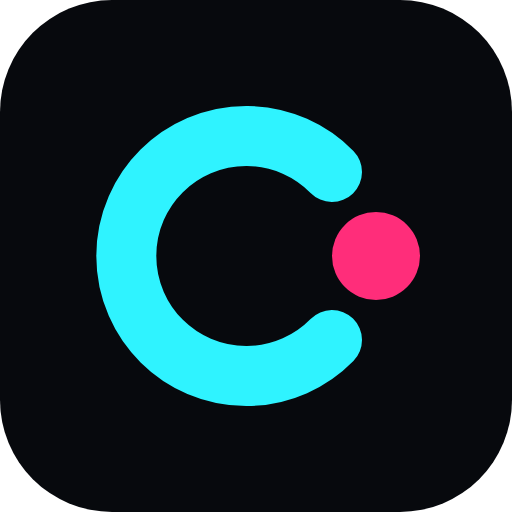
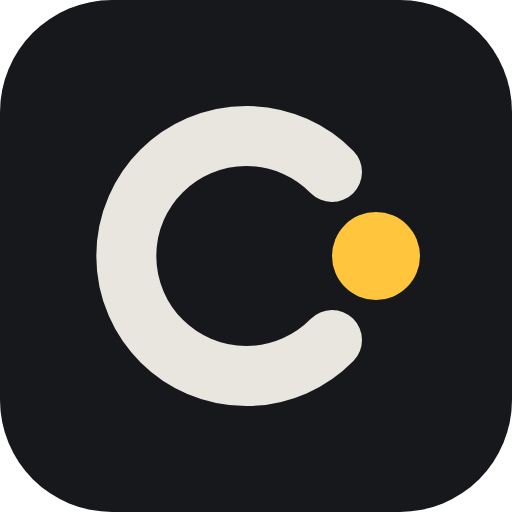
配色を「白×安全黄」に変更: ファビコンとサイトの差し色（チャコール・生成り・安全黄・コーラル）
市民がつくる道具という意味に合わせ、蛍光シアン×マゼンタから落ち着いた配色へ。ヒーローの表記 sivildot を civildot に修正

Changed region(s): [[0.1875, 0.1875, 0.7188, 0.8125], [0.625, 0.4062, 0.8438, 0.5938]]

diff --git a/src/css/site.css b/src/css/site.css
@@ -1,13 +1,12 @@
 :root {
-  --bg: #07090d;
-  --bg-2: #0d1118;
-  --panel: #0f141c;
-  --line: #1c2633;
-  --text: #d8e3ef;
-  --muted: #8a9ab0;
-  --cyan: #2ff3ff;
-  --magenta: #ff2d7a;
-  --amber: #ffc53d;
+  --bg: #111214;
+  --bg-2: #16181b;
+  --panel: #191b1f;
+  --line: #2a2d33;
+  --text: #e9e6df;
+  --muted: #9b978e;
+  --accent: #ffc53d;
+  --accent-2: #f07a52;
   --mono: 'Share Tech Mono', 'Consolas', monospace;
   --sans: 'Noto Sans JP', system-ui, sans-serif;
 }
@@ -20,8 +19,8 @@ body {
   font-family: var(--sans);
   line-height: 1.7;
   background-image:
-    linear-gradient(rgba(47,243,255,0.045) 1px, transparent 1px),
-    linear-gradient(90deg, rgba(47,243,255,0.045) 1px, transparent 1px);
+    linear-gradient(rgba(255,197,61,0.035) 1px, transparent 1px),
+    linear-gradient(90deg, rgba(255,197,61,0.035) 1px, transparent 1px);
   background-size: 48px 48px;
   position: relative;
 }
@@ -35,7 +34,7 @@ body::after {
 }
 body.legal { background-image: none; }
 body.legal::after { display: none; }
-a { color: var(--cyan); text-decoration: none; }
+a { color: var(--accent); text-decoration: none; }
 a:hover { text-decoration: underline; }
 img { max-width: 100%; }
 .wrap { max-width: 1120px; margin: 0 auto; padding: 0 20px; }
@@ -51,18 +50,18 @@ img { max-width: 100%; }
 .site-header .wrap { display: flex; align-items: center; justify-content: space-between; height: 56px; }
 .brand { font-family: var(--mono); font-size: 15px; color: var(--text); white-space: nowrap; }
 .brand:hover { text-decoration: none; }
-.brand b { color: var(--cyan); font-weight: 400; }
-.brand .cursor { display: inline-block; width: 8px; height: 15px; background: var(--cyan); vertical-align: -2px; margin-left: 4px; animation: blink 1s steps(2) infinite; }
+.brand b { color: var(--accent); font-weight: 400; }
+.brand .cursor { display: inline-block; width: 8px; height: 15px; background: var(--accent); vertical-align: -2px; margin-left: 4px; animation: blink 1s steps(2) infinite; }
 @keyframes blink { 50% { opacity: 0; } }
 .site-header nav a { font-family: var(--mono); font-size: 13px; color: var(--muted); margin-left: 22px; }
-.site-header nav a:hover { color: var(--cyan); text-decoration: none; }
+.site-header nav a:hover { color: var(--accent); text-decoration: none; }
 
 /* hero */
 .hero { padding: 72px 0 48px; border-bottom: 1px solid var(--line); position: relative; overflow: hidden; }
 .hero .wrap { position: relative; }
-.hero .tag { font-family: var(--mono); color: var(--magenta); font-size: 13px; margin-bottom: 14px; }
+.hero .tag { font-family: var(--mono); color: var(--accent-2); font-size: 13px; margin-bottom: 14px; }
 .hero h1 { font-size: clamp(30px, 5vw, 52px); line-height: 1.25; margin: 0 0 18px; font-weight: 700; letter-spacing: -0.01em; }
-.hero h1 span { color: var(--cyan); text-shadow: 0 0 18px rgba(47,243,255,0.45); }
+.hero h1 span { color: var(--accent); text-shadow: 0 0 18px rgba(255,197,61,0.45); }
 .hero h1 .h1-brand { display: block; font-family: var(--mono); font-size: 15px; font-weight: 400; letter-spacing: 0.18em; color: var(--muted); text-shadow: none; margin-bottom: 10px; }
 .hero p { max-width: 640px; color: var(--muted); margin: 0 0 26px; font-size: 16px; }
 .hero .links a {
@@ -70,25 +69,25 @@ img { max-width: 100%; }
   padding: 9px 16px; border: 1px solid var(--line); color: var(--text);
   margin: 0 10px 10px 0; background: var(--panel);
 }
-.hero .links a:hover { border-color: var(--cyan); color: var(--cyan); text-decoration: none; box-shadow: 0 0 0 1px rgba(47,243,255,0.25), 0 0 20px rgba(47,243,255,0.12); }
+.hero .links a:hover { border-color: var(--accent); color: var(--accent); text-decoration: none; box-shadow: 0 0 0 1px rgba(255,197,61,0.25), 0 0 20px rgba(255,197,61,0.12); }
 .hero .avatar { position: absolute; right: 20px; top: 0; width: 150px; height: 150px; border: 1px solid var(--line); background: var(--panel); object-fit: cover; }
 .hero .avatar-frame { position: absolute; right: 20px; top: 0; width: 150px; height: 150px; pointer-events: none; }
-.hero .avatar-frame::before, .hero .avatar-frame::after { content: ""; position: absolute; width: 14px; height: 14px; border: 2px solid var(--cyan); }
+.hero .avatar-frame::before, .hero .avatar-frame::after { content: ""; position: absolute; width: 14px; height: 14px; border: 2px solid var(--accent); }
 .hero .avatar-frame::before { left: -4px; top: -4px; border-right: 0; border-bottom: 0; }
 .hero .avatar-frame::after { right: -4px; bottom: -4px; border-left: 0; border-top: 0; }
 .stats { display: flex; gap: 28px; margin-top: 10px; font-family: var(--mono); font-size: 13px; color: var(--muted); flex-wrap: wrap; }
-.stats b { color: var(--amber); font-weight: 400; font-size: 20px; margin-right: 6px; }
+.stats b { color: var(--accent); font-weight: 400; font-size: 20px; margin-right: 6px; }
 
 /* sections */
 .section-head { display: flex; align-items: baseline; justify-content: space-between; margin: 44px 0 18px; flex-wrap: wrap; gap: 12px; }
 .section-head h2 { font-family: var(--mono); font-size: 14px; color: var(--muted); margin: 0; font-weight: 400; }
-.section-head h2::before { content: "// "; color: var(--magenta); }
+.section-head h2::before { content: "// "; color: var(--accent-2); }
 .filters { display: flex; gap: 8px; flex-wrap: wrap; }
 .filters button {
   font-family: var(--mono); font-size: 12px; background: transparent; color: var(--muted);
   border: 1px solid var(--line); padding: 5px 12px; cursor: pointer;
 }
-.filters button.on, .filters button:hover { color: var(--cyan); border-color: var(--cyan); }
+.filters button.on, .filters button:hover { color: var(--accent); border-color: var(--accent); }
 
 /* cards */
 .grid { display: grid; grid-template-columns: repeat(auto-fill, minmax(300px, 1fr)); gap: 22px; margin-bottom: 72px; }
@@ -96,17 +95,17 @@ img { max-width: 100%; }
   display: block; background: var(--panel); border: 1px solid var(--line); color: var(--text);
   position: relative; transition: transform .15s, border-color .15s, box-shadow .15s;
 }
-.card:hover { text-decoration: none; transform: translateY(-3px); border-color: var(--cyan); box-shadow: 0 0 0 1px rgba(47,243,255,0.25), 0 12px 40px rgba(0,0,0,0.5), 0 0 24px rgba(47,243,255,0.1); }
-.card::before { content: ""; position: absolute; left: -1px; top: -1px; width: 16px; height: 16px; border-top: 2px solid var(--cyan); border-left: 2px solid var(--cyan); opacity: 0; transition: opacity .15s; }
-.card::after  { content: ""; position: absolute; right: -1px; bottom: -1px; width: 16px; height: 16px; border-bottom: 2px solid var(--magenta); border-right: 2px solid var(--magenta); opacity: 0; transition: opacity .15s; }
+.card:hover { text-decoration: none; transform: translateY(-3px); border-color: var(--accent); box-shadow: 0 0 0 1px rgba(255,197,61,0.25), 0 12px 40px rgba(0,0,0,0.5), 0 0 24px rgba(255,197,61,0.1); }
+.card::before { content: ""; position: absolute; left: -1px; top: -1px; width: 16px; height: 16px; border-top: 2px solid var(--accent); border-left: 2px solid var(--accent); opacity: 0; transition: opacity .15s; }
+.card::after  { content: ""; position: absolute; right: -1px; bottom: -1px; width: 16px; height: 16px; border-bottom: 2px solid var(--accent-2); border-right: 2px solid var(--accent-2); opacity: 0; transition: opacity .15s; }
 .card:hover::before, .card:hover::after { opacity: 1; }
 .card .thumb { position: relative; aspect-ratio: 16 / 9; overflow: hidden; background: #000; border-bottom: 1px solid var(--line); }
 .card .thumb img { width: 100%; height: 100%; object-fit: cover; display: block; filter: saturate(0.9); transition: filter .2s, transform .3s; }
 .card:hover .thumb img { filter: saturate(1.1); transform: scale(1.03); }
 .card .thumb .kind { position: absolute; left: 10px; top: 10px; }
-.kind { font-family: var(--mono); font-size: 11px; padding: 3px 8px; background: rgba(7,9,13,0.85); border: 1px solid var(--line); color: var(--cyan); letter-spacing: 0.06em; }
-.kind.mobile { color: var(--amber); }
-.kind.vr { color: var(--magenta); }
+.kind { font-family: var(--mono); font-size: 11px; padding: 3px 8px; background: rgba(17,18,20,0.88); border: 1px solid var(--line); color: var(--accent); letter-spacing: 0.06em; }
+.kind.mobile { color: var(--text); }
+.kind.vr { color: var(--accent-2); }
 .card .body { padding: 14px 16px 16px; }
 .card .year { font-family: var(--mono); font-size: 11px; color: var(--muted); }
 .card h3 { margin: 2px 0 6px; font-size: 17px; font-weight: 700; }
@@ -122,7 +121,7 @@ img { max-width: 100%; }
 .work-page { padding: 28px 20px 60px; }
 .crumb { font-size: 12px; color: var(--muted); margin: 0 0 22px; }
 .crumb a { color: var(--muted); }
-.crumb a:hover { color: var(--cyan); }
+.crumb a:hover { color: var(--accent); }
 .crumb.back { margin-top: 40px; }
 .work-meta { font-size: 12px; color: var(--muted); margin-bottom: 8px; }
 .work-meta .kind { margin-right: 8px; }
@@ -133,11 +132,11 @@ img { max-width: 100%; }
 .work-body { max-width: 820px; }
 .work-body section { margin-bottom: 34px; }
 .work-body h2 { font-size: 13px; color: var(--muted); font-weight: 400; margin: 0 0 10px; }
-.work-body h2::before { color: var(--magenta); }
+.work-body h2::before { color: var(--accent-2); }
 .work-body p { margin: 0 0 12px; }
 .btns { display: flex; flex-wrap: wrap; gap: 10px; }
-.btn { display: inline-block; font-family: var(--mono); font-size: 13px; padding: 9px 16px; border: 1px solid var(--cyan); color: var(--cyan); background: var(--panel); }
-.btn:hover { text-decoration: none; background: rgba(47,243,255,0.08); box-shadow: 0 0 20px rgba(47,243,255,0.15); }
+.btn { display: inline-block; font-family: var(--mono); font-size: 13px; padding: 9px 16px; border: 1px solid var(--accent); color: var(--accent); background: var(--panel); }
+.btn:hover { text-decoration: none; background: rgba(255,197,61,0.08); box-shadow: 0 0 20px rgba(255,197,61,0.15); }
 .btn.sub { border-color: var(--line); color: var(--muted); }
 .btn.sub:hover { border-color: var(--muted); }
 .videos { display: grid; grid-template-columns: repeat(auto-fill, minmax(360px, 1fr)); gap: 16px; }
@@ -148,7 +147,7 @@ img { max-width: 100%; }
 .legal-page { padding: 28px 20px 60px; max-width: 860px; line-height: 1.9; }
 .legal-page h1 { font-size: 26px; margin: 0 0 24px; }
 .legal-page h2 { font-size: 19px; margin: 36px 0 12px; padding-bottom: 6px; border-bottom: 1px solid var(--line); }
-.legal-page h3 { font-size: 16px; margin: 24px 0 8px; color: var(--cyan); }
+.legal-page h3 { font-size: 16px; margin: 24px 0 8px; color: var(--accent); }
 .legal-page p { margin: 0 0 14px; }
 .legal-page ul { margin: 0 0 16px; padding-left: 24px; }
 .legal-page li { margin-bottom: 4px; }
@@ -161,7 +160,7 @@ img { max-width: 100%; }
 .site-footer { border-top: 1px solid var(--line); padding: 28px 0 40px; font-family: var(--mono); font-size: 12px; color: var(--muted); }
 .site-footer .wrap { display: flex; justify-content: space-between; flex-wrap: wrap; gap: 12px; }
 .site-footer a { color: var(--muted); margin-right: 18px; }
-.site-footer a:hover { color: var(--cyan); }
+.site-footer a:hover { color: var(--accent); }
 
 @media (max-width: 720px) {
   .site-header .wrap { height: auto; padding: 10px 16px; flex-wrap: wrap; gap: 6px 0; }
